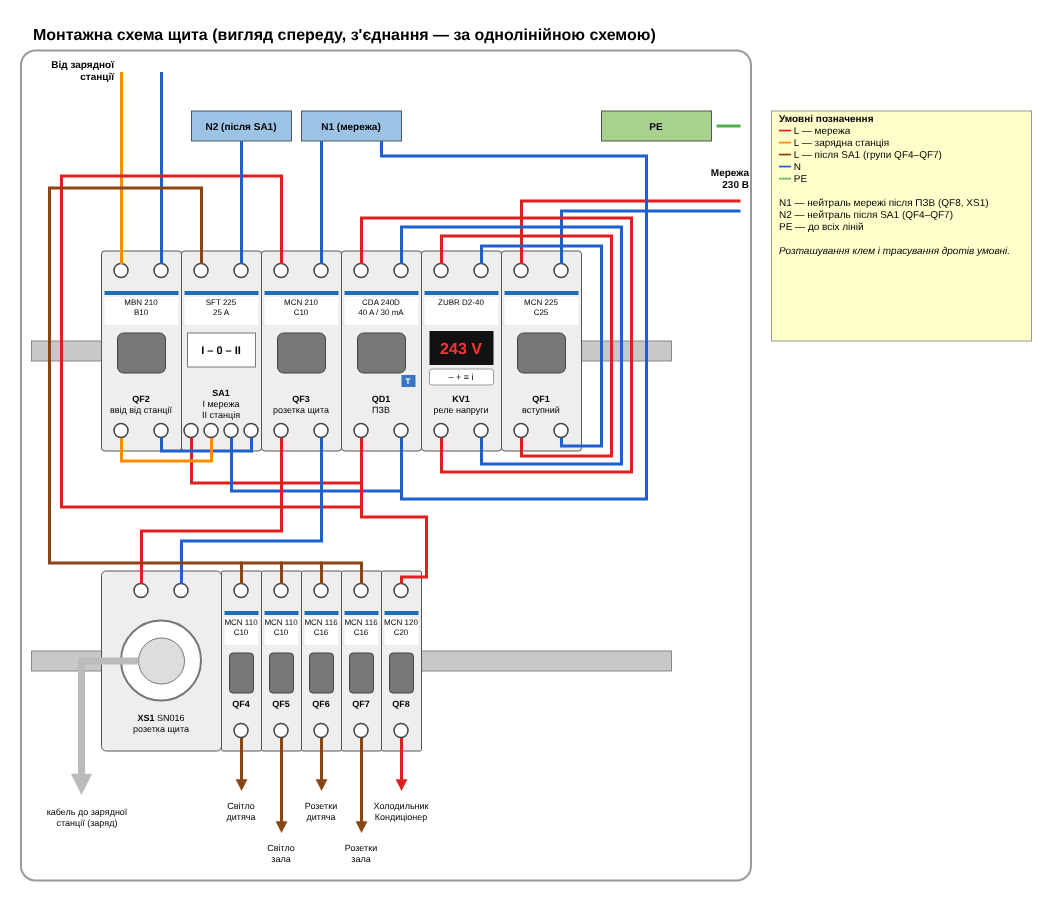
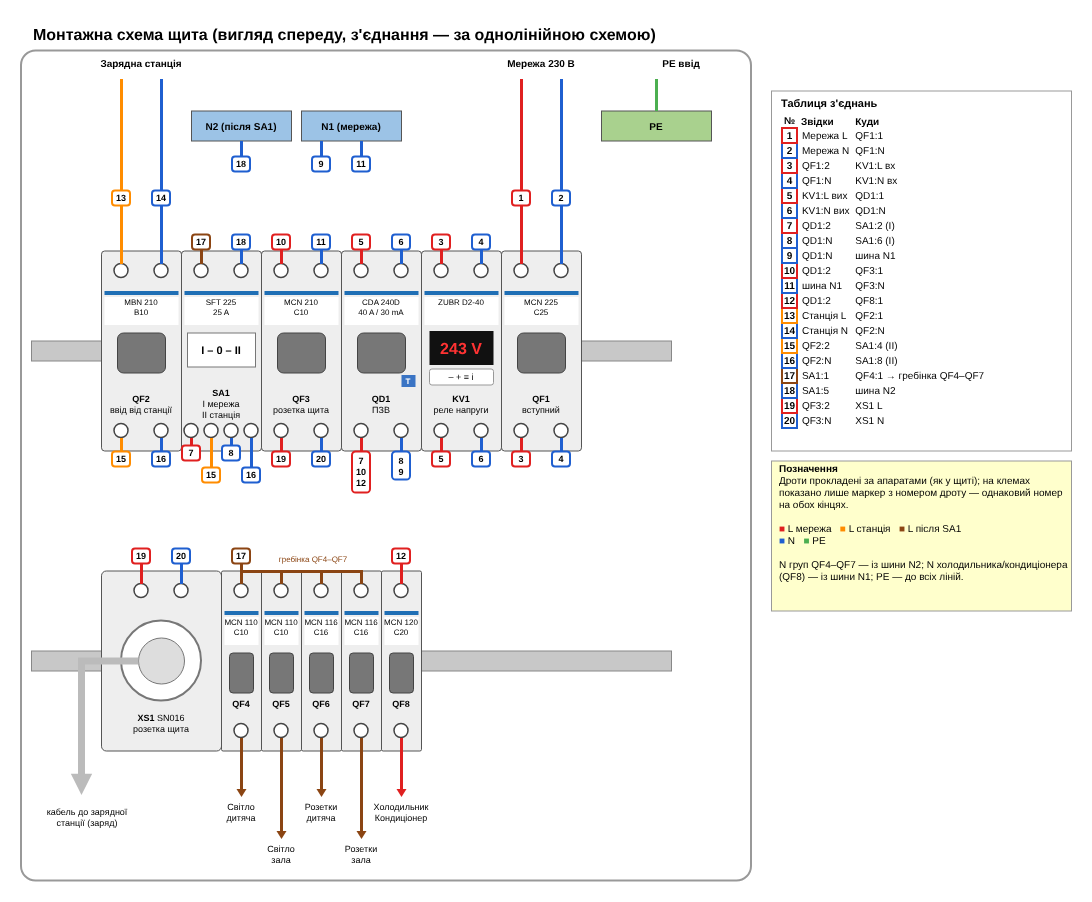
Wiring page: hide wires behind devices, numbered wire markers and connection table
Claude-Session: https://claude.ai/code/session_01NfAMnHzY5E9M1jDxxPyqfB

diff --git a/electrical-panel/gen_drawio.py b/electrical-panel/gen_drawio.py
@@ -130,7 +130,9 @@ w.box(30, -30, 700, 26, "Монтажна схема щита (вигляд сп
 w.box(20, 0, 730, 830, "", "fillColor=#ffffff;strokeColor=#999999;strokeWidth=2;rounded=1;arcSize=2;")
 T = {}
 
+TP = {}
 def term(key, x, y):
+    TP[key] = (x, y)
     T[key] = w.box(x - 7, y - 7, 14, 14, "", "ellipse;shape=ellipse;fillColor=#ffffff;strokeColor=#444444;strokeWidth=1.5;")
 
 def device(x, y, mods, h, tops, bots, model, tag, note="", kind="mcb"):
@@ -159,10 +161,6 @@ def bar(x, y, wd, label, fill):
 def pt(x, y):
     return w.box(x - 1, y - 1, 2, 2, "", "fillColor=none;strokeColor=none;")
 
-RED, BLUE, BRN, ORG, PEC = "#e02020", "#1f5fd0", "#8b4513", "#ff8c00", "#4caf50"
-def wire(a, b, color, pts=None, extra=""):
-    st = f"edgeStyle=none;strokeColor={color};strokeWidth=3;jumpStyle=arc;jumpSize=10;" + extra
-    w.edge(a, b, style=st, pts=pts)
 
 # busbars
 n2 = bar(190, 60, 100, "N2 (після SA1)", "#9cc3e6")
@@ -190,67 +188,104 @@ groups3 = [("QF4", "MCN 110<br>C10"), ("QF5", "MCN 110<br>C10"), ("QF6", "MCN 11
 for k, (tag, model) in enumerate(groups3):
     device(220 + k * 40, 520, 1, 180, [(tag + "t", 20)], [(tag + "b", 20)], model, tag)
 
-# mains input (right) and station input (top-left)
-inL, inN, inPE = pt(740, 150), pt(740, 160), pt(740, 75)
-w.box(680, 112, 70, 30, "Мережа<br>230 В", "fillColor=none;strokeColor=none;fontSize=10;fontStyle=1;align=right;")
-stL, stN = pt(120, 20), pt(160, 20)
-w.box(30, 4, 85, 30, "Від зарядної<br>станції", "fillColor=none;strokeColor=none;fontSize=10;fontStyle=1;align=right;")
+RED, BLUE, BRN, ORG, PEC = "#e02020", "#1f5fd0", "#8b4513", "#ff8c00", "#4caf50"
 
-wire(inPE, pe, PEC, extra="dashed=1;dashPattern=8 4;")
-wire(inL, T["QF1t1"], RED, [(520, 150)])
-wire(inN, T["QF1t2"], BLUE, [(560, 160)])
-wire(stL, T["QF2t1"], ORG)
-wire(stN, T["QF2t2"], BLUE)
-# QF1 -> KV1 -> QD1 (via right gap)
-wire(T["QF1b1"], T["KV1t1"], RED, [(520, 405), (610, 405), (610, 185), (440, 185)])
-wire(T["QF1b2"], T["KV1t2"], BLUE, [(560, 395), (600, 395), (600, 195), (480, 195)])
-wire(T["KV1b1"], T["QD1t1"], RED, [(440, 421), (630, 421), (630, 167), (360, 167)])
-wire(T["KV1b2"], T["QD1t2"], BLUE, [(480, 413), (620, 413), (620, 176), (400, 176)])
-# QD1 -> SA1 position I
-wire(T["QD1b1"], T["SA1b2"], RED, [(360, 432), (190, 432)])
-wire(T["QD1b2"], T["SA1b6"], BLUE, [(400, 440), (230, 440)])
-# QD1 N -> busbar N1 (around the right side)
-wire(T["QD1b2"], n1, BLUE, [(400, 448), (645, 448), (645, 105), (380, 105)], "entryX=0.8;entryY=1;")
-# QF3 (socket) from mains after RCD
-wire(T["QD1b1"], T["QF3t1"], RED, [(360, 456), (60, 456), (60, 125), (280, 125)])
-wire(T["QF3t2"], n1, BLUE, extra="entryX=0.2;entryY=1;")
-wire(T["QF3b1"], T["XS1t1"], RED, [(280, 480), (140, 480)])
-wire(T["QF3b2"], T["XS1t2"], BLUE, [(320, 490), (180, 490)])
-# QF8 — mains only
-wire(T["QD1b1"], T["QF8t"], RED, [(360, 466), (425, 466), (425, 526), (400, 526)])
-# station -> SA1 position II
-wire(T["QF2b2"], T["SA1b8"], BLUE, [(160, 400), (250, 400)])
-wire(T["QF2b1"], T["SA1b4"], ORG, [(120, 410), (210, 410)])
-# SA1 common -> N2 and group comb
-wire(T["SA1t5"], n2, BLUE, extra="entryX=0.5;entryY=1;")
-wire(T["SA1t1"], T["QF4t"], BRN, [(200, 137), (48, 137), (48, 512), (240, 512)])
-for a, b in [("QF4t", "QF5t"), ("QF5t", "QF6t"), ("QF6t", "QF7t")]:
-    wire(T[a], T[b], BRN, [(240 + 40 * int(a[2]) - 160, 512), (240 + 40 * int(b[2]) - 160, 512)])
+def vline(x, y1, y2, color, width=3):
+    w.box(x - width / 2, min(y1, y2), width, abs(y2 - y1), "", f"fillColor={color};strokeColor=none;")
+
+def marker(x, y, text, color):
+    n = text.count("<br>") + 1
+    w.box(x - 9, y, 18, 13 * n + 2, text,
+          f"fillColor=#ffffff;strokeColor={color};strokeWidth=2;fontSize=9;fontStyle=1;spacing=0;rounded=1;arcSize=20;")
+
+def stub(key, text, color, length=14, up=False):
+    """Short wire end with a numbered marker; the rest of the wire runs hidden behind the devices."""
+    x, y = TP[key]
+    h = 13 * (text.count("<br>") + 1) + 2
+    if up:
+        vline(x, y - 7 - length, y - 7, color)
+        marker(x, y - 7 - length - h, text, color)
+    else:
+        vline(x, y + 7, y + 7 + length, color)
+        marker(x, y + 7 + length, text, color)
+
+def bar_stub(x, text, color, length=16):
+    vline(x, 90, 90 + length, color)
+    marker(x, 90 + length, text, color)
+
+# incoming cables (visible, no crossings): mains from top to QF1, station from top to QF2
+w.box(490, -2, 100, 28, "Мережа 230 В", "fillColor=none;strokeColor=none;fontSize=10;fontStyle=1;")
+w.box(90, -2, 100, 28, "Зарядна станція", "fillColor=none;strokeColor=none;fontSize=10;fontStyle=1;")
+for x, col, num in [(520, RED, "1"), (560, BLUE, "2"), (120, ORG, "13"), (160, BLUE, "14")]:
+    vline(x, 28, 213, col)
+    marker(x, 140, num, col)
+w.box(640, -2, 80, 28, "PE ввід", "fillColor=none;strokeColor=none;fontSize=10;fontStyle=1;")
+vline(655, 28, 60, PEC)
+
+# numbered wire ends — top row, upper terminals
+for key, num, col in [("SA1t1", "17", BRN), ("SA1t5", "18", BLUE), ("QF3t1", "10", RED), ("QF3t2", "11", BLUE),
+                      ("QD1t1", "5", RED), ("QD1t2", "6", BLUE), ("KV1t1", "3", RED), ("KV1t2", "4", BLUE)]:
+    stub(key, num, col, up=True)
+# top row, lower terminals
+for key, num, col, ln in [("QF2b1", "15", ORG, 14), ("QF2b2", "16", BLUE, 14),
+                          ("SA1b2", "7", RED, 8), ("SA1b4", "15", ORG, 30), ("SA1b6", "8", BLUE, 8), ("SA1b8", "16", BLUE, 30),
+                          ("QF3b1", "19", RED, 14), ("QF3b2", "20", BLUE, 14),
+                          ("QD1b1", "7<br>10<br>12", RED, 14), ("QD1b2", "8<br>9", BLUE, 14),
+                          ("KV1b1", "5", RED, 14), ("KV1b2", "6", BLUE, 14),
+                          ("QF1b1", "3", RED, 14), ("QF1b2", "4", BLUE, 14)]:
+    stub(key, num, col, length=ln)
+# bottom row, upper terminals
+stub("XS1t1", "19", RED, length=20, up=True)
+stub("XS1t2", "20", BLUE, length=20, up=True)
+stub("QF8t", "12", RED, length=20, up=True)
+stub("QF4t", "17", BRN, length=20, up=True)
+w.box(240, 519, 120, 3, "", f"fillColor={BRN};strokeColor=none;")   # comb QF4–QF7
+for x in (280, 320, 360):
+    vline(x, 519, 533, BRN)
+w.box(262, 500, 100, 16, "гребінка QF4–QF7", "fillColor=none;strokeColor=none;fontSize=8;fontColor=#8b4513;")
+# busbars
+bar_stub(320, "9", BLUE); bar_stub(360, "11", BLUE); bar_stub(240, "18", BLUE)
 
 # outgoing lines
-loads = [("QF4b", 240, "Світло<br>дитяча", BRN), ("QF5b", 280, "Світло<br>зала", BRN),
-         ("QF6b", 320, "Розетки<br>дитяча", BRN), ("QF7b", 360, "Розетки<br>зала", BRN),
-         ("QF8b", 400, "Холодильник<br>Кондиціонер", RED)]
-for k, (key, x, text, col) in enumerate(loads):
-    lab = w.box(x - 19, 740 + (k % 2) * 42, 38, 0, "", "fillColor=none;strokeColor=none;")
-    wire(T[key], lab, col, extra="endArrow=block;endFill=1;endSize=4;")
-    w.box(x - 30, 742 + (k % 2) * 42, 60, 36, text, "fillColor=none;strokeColor=none;fontSize=9;")
+loads = [(240, "Світло<br>дитяча", BRN), (280, "Світло<br>зала", BRN),
+         (320, "Розетки<br>дитяча", BRN), (360, "Розетки<br>зала", BRN),
+         (400, "Холодильник<br>Кондиціонер", RED)]
+for k, (x, text, col) in enumerate(loads):
+    y2 = 738 + (k % 2) * 42
+    vline(x, 687, y2, col)
+    w.box(x - 5, y2, 10, 8, "", f"triangle;shape=triangle;direction=south;fillColor={col};strokeColor=none;")
+    w.box(x - 32, y2 + 8, 64, 30, text, "fillColor=none;strokeColor=none;fontSize=9;")
 plug = pt(80, 745)
 w.edge(sock, plug, style="edgeStyle=none;strokeColor=#bbbbbb;strokeWidth=7;endArrow=block;endFill=1;endSize=3;", pts=[(80, 610)])
 w.box(36, 750, 100, 32, "кабель до зарядної<br>станції (заряд)", "fillColor=none;strokeColor=none;fontSize=9;")
 
+# wire list
+rows = [("1", "Мережа L", "QF1:1", RED), ("2", "Мережа N", "QF1:N", BLUE),
+        ("3", "QF1:2", "KV1:L вх", RED), ("4", "QF1:N", "KV1:N вх", BLUE),
+        ("5", "KV1:L вих", "QD1:1", RED), ("6", "KV1:N вих", "QD1:N", BLUE),
+        ("7", "QD1:2", "SA1:2 (I)", RED), ("8", "QD1:N", "SA1:6 (I)", BLUE),
+        ("9", "QD1:N", "шина N1", BLUE), ("10", "QD1:2", "QF3:1", RED),
+        ("11", "шина N1", "QF3:N", BLUE), ("12", "QD1:2", "QF8:1", RED),
+        ("13", "Станція L", "QF2:1", ORG), ("14", "Станція N", "QF2:N", BLUE),
+        ("15", "QF2:2", "SA1:4 (II)", ORG), ("16", "QF2:N", "SA1:8 (II)", BLUE),
+        ("17", "SA1:1", "QF4:1 → гребінка QF4–QF7", BRN), ("18", "SA1:5", "шина N2", BLUE),
+        ("19", "QF3:2", "XS1 L", RED), ("20", "QF3:N", "XS1 N", BLUE)]
+tr = "".join(f"<tr><td align='center' style='border:2px solid {c};font-weight:bold'>{n}</td>"
+             f"<td>&nbsp;{a}</td><td>&nbsp;{b}</td></tr>" for n, a, b, c in rows)
+w.box(770, 40, 300, 360,
+      "<b>Таблиця з'єднань</b><table style='font-size:10px;border-collapse:collapse;margin-top:4px' cellpadding='1'>"
+      "<tr><th>№</th><th align='left'>&nbsp;Звідки</th><th align='left'>&nbsp;Куди</th></tr>" + tr + "</table>",
+      "fillColor=#ffffff;strokeColor=#999999;align=left;verticalAlign=top;spacingLeft=8;spacingTop=4;fontSize=11;")
+
 # legend
-w.box(770, 60, 260, 230,
-      "<b>Умовні позначення</b><br>"
-      "<font color='#e02020'>━━</font> L — мережа<br>"
-      "<font color='#ff8c00'>━━</font> L — зарядна станція<br>"
-      "<font color='#8b4513'>━━</font> L — після SA1 (групи QF4–QF7)<br>"
-      "<font color='#1f5fd0'>━━</font> N<br>"
-      "<font color='#4caf50'>╍╍</font> PE<br><br>"
-      "N1 — нейтраль мережі після ПЗВ (QF8, XS1)<br>"
-      "N2 — нейтраль після SA1 (QF4–QF7)<br>"
-      "PE — до всіх ліній<br><br>"
-      "<i>Розташування клем і трасування дротів умовні.</i>", NOTE)
+w.box(770, 410, 300, 150,
+      "<b>Позначення</b><br>"
+      "Дроти прокладені за апаратами (як у щиті); на клемах показано лише маркер з номером дроту — "
+      "однаковий номер на обох кінцях.<br><br>"
+      "<font color='#e02020'>■</font> L мережа &nbsp; <font color='#ff8c00'>■</font> L станція &nbsp; "
+      "<font color='#8b4513'>■</font> L після SA1<br><font color='#1f5fd0'>■</font> N &nbsp; "
+      "<font color='#4caf50'>■</font> PE<br><br>"
+      "N груп QF4–QF7 — із шини N2; N холодильника/кондиціонера (QF8) — із шини N1; PE — до всіх ліній.", NOTE)
 
 out = ('<mxfile host="app.diagrams.net" type="device">' + p.xml("sld") + q.xml("layout") + w.xml("wiring") + '</mxfile>')
 open(sys.argv[1], "w", encoding="utf-8").write(out)

diff --git a/electrical-panel/README.md b/electrical-panel/README.md
@@ -3,7 +3,7 @@
 - `shchyt.drawio` — схема у форматі draw.io (diagrams.net), 3 сторінки:
   1. **Однолінійна схема** — апарати та припущений порядок з'єднань (мережа + зарядна станція).
   2. **Розміщення в щиті** — вигляд спереду, як апарати стоять на DIN-рейках.
-  3. **Монтажна схема** — апарати як модулі з клемами та кольоровими дротами (L, N, PE).
+  3. **Монтажна схема** — апарати як модулі; дроти сховані за апаратами, на клемах — нумеровані маркери + таблиця з'єднань.
 - `gen_drawio.py` — скрипт, яким згенеровано файл (`python3 gen_drawio.py shchyt.drawio`).
 
 Відкрити: https://app.diagrams.net → File → Open from → Device.
